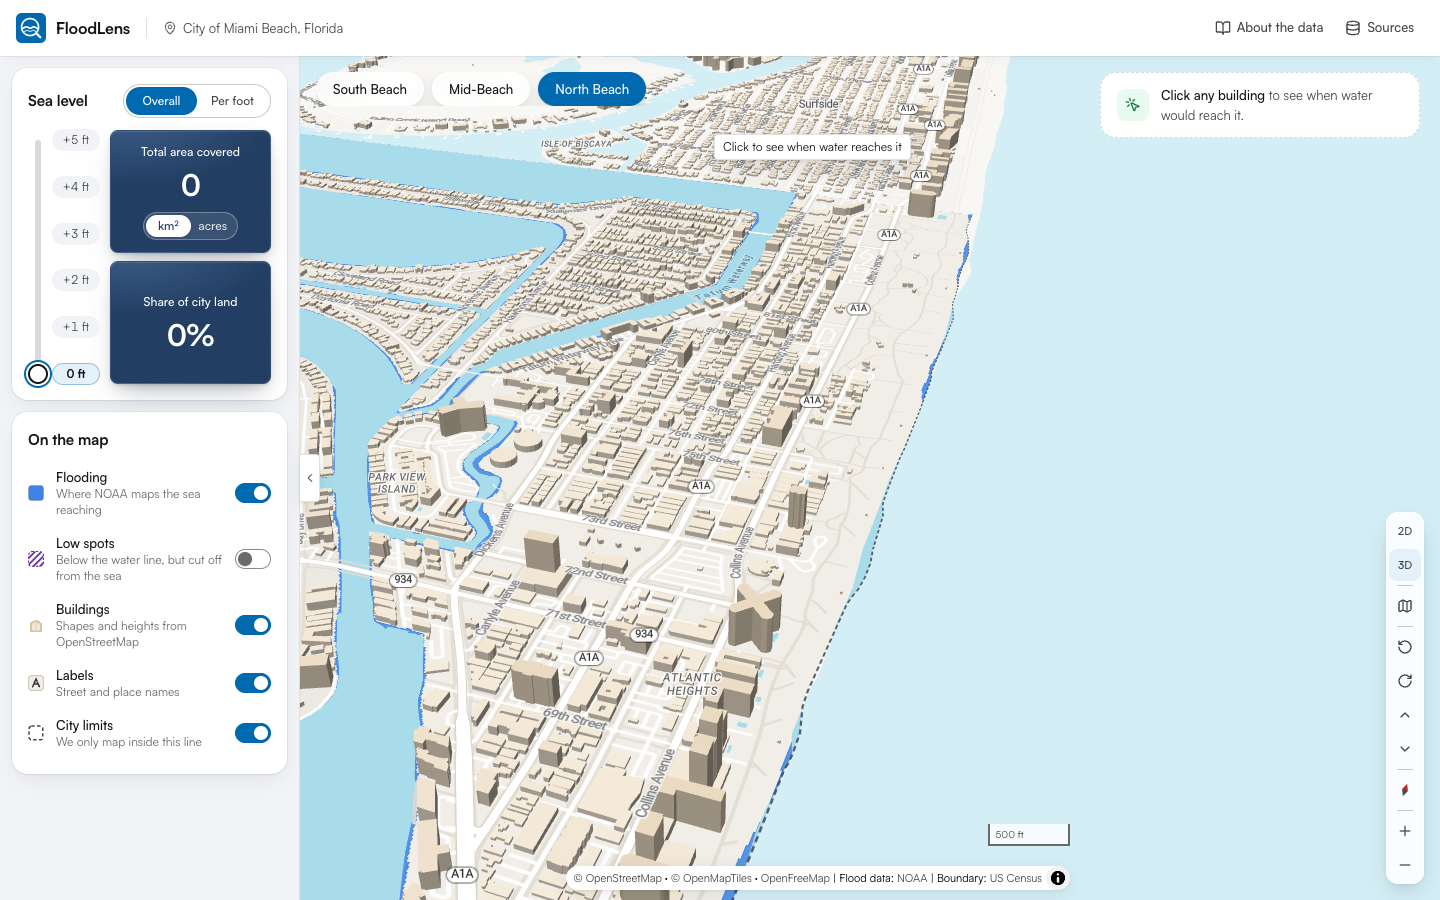
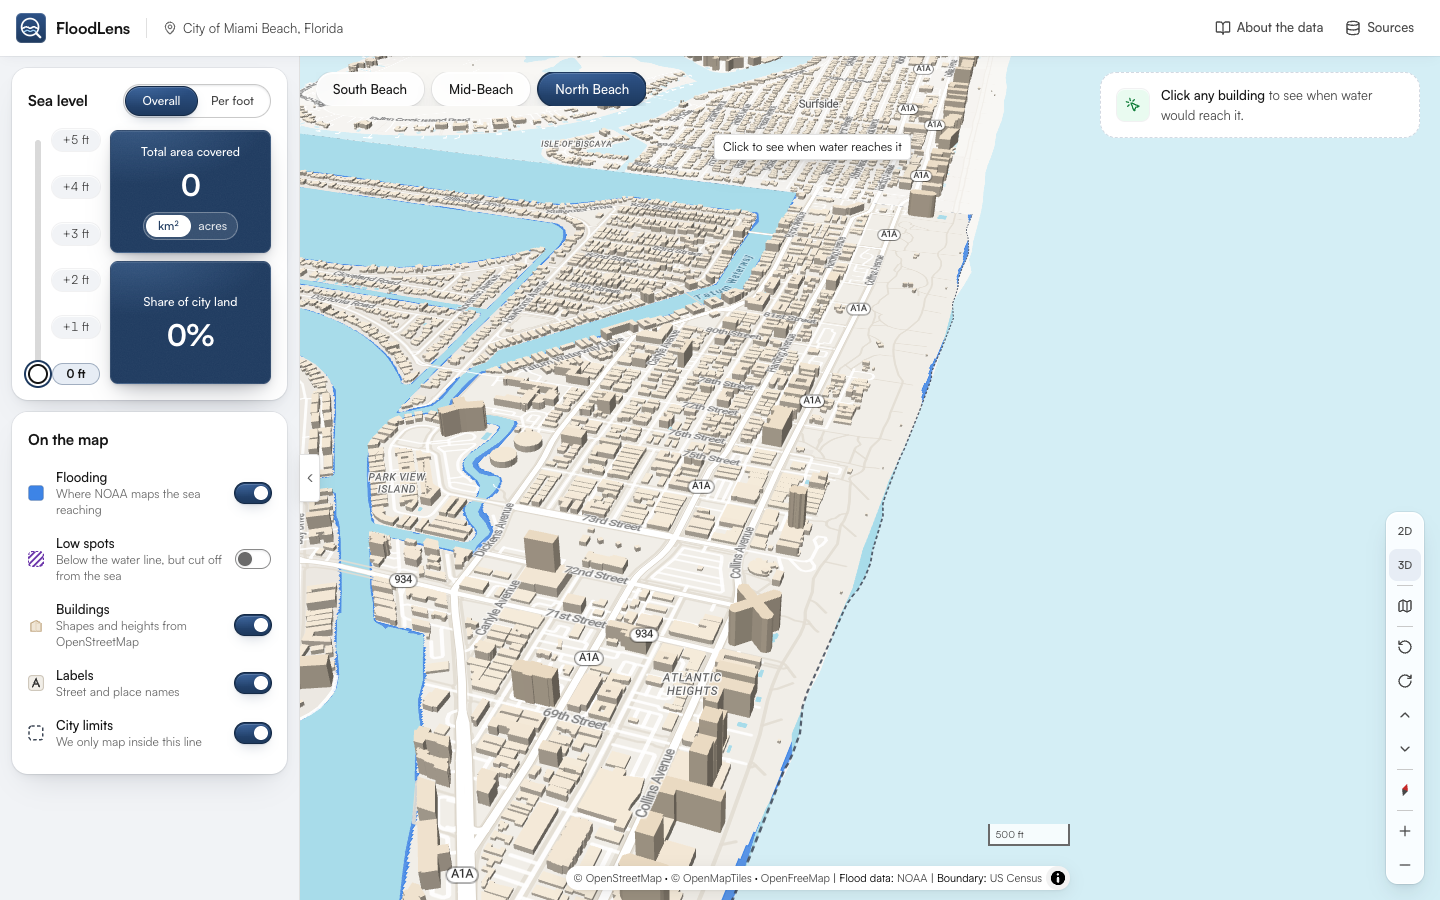
v0.50: Navy brand colour and premium surfaces
The brand accent is now navy #1e3a5f (was #0069b0), the owner's pick from
three rendered primaries, so it matches the premium navy boxes. Solid accent
fills (chosen pills, on switches, the selected area chip, the logo) get the
same finish: soft shade, faint glow, top highlight, navy hairline, small
shadow. Cards, frosted controls, the left canvas, pill tracks, level chips
and icon tiles get the matching hairline, highlight, shadow or faint grain.
The map stays flat: its colours are data.

Tests: 107 unit/component, 20 end-to-end.

diff --git a/src/styles/index.css b/src/styles/index.css
@@ -35,10 +35,11 @@
   --color-fg-muted: #474747;
   --color-fg-subtle: #6a6a6a;
 
-  /* Brand + data */
-  --color-accent: #0069b0;
-  --color-accent-strong: #00548f;
-  --color-accent-soft: #e5f1fa;
+  /* Brand + data. The brand colour is navy (v0.50, the owner's pick), the same as the premium
+     boxes, so selected toggles, chips, switches and the logo read as one family. #0069b0 before. */
+  --color-accent: #1e3a5f;
+  --color-accent-strong: #152a46;
+  --color-accent-soft: #e7edf5;
   --color-flood: #1f66d1;
   --color-flood-strong: #1550a8;
   --color-compare: #f08c1e;
@@ -51,8 +52,13 @@
   --shadow-float: 0 1px 3px rgb(0 0 0 / 0.1), 0 8px 24px rgb(0 0 0 / 0.12);
   /* v0.25: a faint ring and a soft, low shadow instead of a hard border (cards), and a
      stronger lift for the frosted controls that float over the map (glass). */
-  --shadow-card: 0 0 0 1px rgb(16 24 40 / 0.05), 0 1px 2px rgb(16 24 40 / 0.04), 0 8px 20px -6px rgb(16 24 40 / 0.1);
-  --shadow-glass: 0 1px 2px rgb(16 24 40 / 0.06), 0 10px 24px -8px rgb(16 24 40 / 0.3);
+  /* v0.50, premium everywhere: a top highlight, a fine hairline and layered soft shadows. */
+  --shadow-card:
+    inset 0 1px 0 #ffffff, 0 0 0 1px rgb(16 24 40 / 0.06), 0 1px 2px rgb(16 24 40 / 0.05),
+    0 4px 10px -4px rgb(16 24 40 / 0.08), 0 16px 32px -14px rgb(16 24 40 / 0.16);
+  --shadow-glass:
+    inset 0 1px 0 rgb(255 255 255 / 0.9), 0 0 0 1px rgb(16 24 40 / 0.07), 0 2px 4px -1px rgb(16 24 40 / 0.08),
+    0 12px 24px -10px rgb(16 24 40 / 0.28);
   --shadow-header: 0 1px 0 rgb(16 24 40 / 0.06), 0 4px 12px -4px rgb(16 24 40 / 0.06);
 
   --animate-fade-in: fade-in 180ms ease-out both;
@@ -145,6 +151,36 @@
       -webkit-backdrop-filter: none;
       backdrop-filter: none;
     }
+  }
+  /* Premium fills and surfaces (v0.50), so every colour gets the same treatment as the navy boxes:
+     light from the top, a crisp edge, a soft lift. Flat on the map itself: there colour is data. */
+  /* Selected toggles, the chosen area chip, switches that are on: navy with a faint glow. */
+  .fill-accent {
+    background-color: var(--color-accent);
+    background-image:
+      radial-gradient(120% 120% at 20% 0%, rgb(120 170 230 / 0.22), transparent 60%),
+      linear-gradient(180deg, #2d5287, var(--color-accent));
+    box-shadow:
+      inset 0 1px 0 rgb(255 255 255 / 0.18),
+      0 0 0 1px var(--color-accent-strong),
+      0 1px 2px rgb(30 58 95 / 0.35),
+      0 6px 14px -6px rgb(30 58 95 / 0.45);
+  }
+  /* The grey canvas behind the left panel's cards: a whisper of grain. */
+  .canvas-grain {
+    background-image: url("'''+canvas_grain+'''");
+  }
+  /* Grey chips (the slider's levels): a top highlight and a hairline. */
+  .chip-soft {
+    box-shadow: inset 0 1px 0 rgb(255 255 255 / 0.8), 0 0 0 1px rgb(16 24 40 / 0.06);
+  }
+  /* Toggle tracks and switches that are off: a soft inset, like a groove. */
+  .track-inset {
+    box-shadow: inset 0 1px 2px rgb(16 24 40 / 0.1);
+  }
+  /* Pale icon tiles on the place card: a top highlight and a hairline. */
+  .tile-soft {
+    box-shadow: inset 0 1px 0 rgb(255 255 255 / 0.7), 0 0 0 1px rgb(16 24 40 / 0.06);
   }
   .section-title {
     font-size: 13px;

diff --git a/src/components/insights/InspectionCard.tsx b/src/components/insights/InspectionCard.tsx
@@ -38,7 +38,7 @@ function Row({
   return (
     <div className="grid grid-cols-[1fr_auto] items-center gap-x-3 py-1.5">
       <dt className="flex min-w-0 items-center gap-2.5 text-[14px] leading-5 font-medium text-white">
-        <span className="grid size-7 shrink-0 place-items-center rounded-lg" style={{ background: TINTS[tint].bg, color: TINTS[tint].fg }} aria-hidden>
+        <span className="tile-soft grid size-7 shrink-0 place-items-center rounded-lg" style={{ background: TINTS[tint].bg, color: TINTS[tint].fg }} aria-hidden>
           <Icon className="size-4" />
         </span>
         {label}
@@ -67,7 +67,7 @@ export function InspectionCard({ selection, inspection, scenarioFt, onClear }: P
           the map (v0.46; a deeper green for the icon, since #3ee67e on a pale tile is too faint),
           then the name and, under it, the coordinates with a small tile of their own. */}
       <div className="flex items-start gap-2.5">
-        <span className="grid size-9 shrink-0 place-items-center rounded-[10px] bg-[#e9fbf0] text-[#15803d]" aria-hidden>
+        <span className="tile-soft grid size-9 shrink-0 place-items-center rounded-[10px] bg-[#e9fbf0] text-[#15803d]" aria-hidden>
           <Icon className="size-5" />
         </span>
         <div className="min-w-0 flex-1">
@@ -77,7 +77,7 @@ export function InspectionCard({ selection, inspection, scenarioFt, onClear }: P
           </h3>
           {/* No "N m from street": the title already names the street, and the distance answers nothing about water. */}
           <p className="mt-1 flex items-center gap-1.5 text-[12px] leading-4 whitespace-nowrap text-fg-muted tabular">
-            <span className="grid size-5 shrink-0 place-items-center rounded-md bg-surface-2 text-fg-subtle" aria-hidden>
+            <span className="tile-soft grid size-5 shrink-0 place-items-center rounded-md bg-surface-2 text-fg-subtle" aria-hidden>
               <Crosshair className="size-3" />
             </span>
             {formatCoord(lngLat[0], lngLat[1])}

diff --git a/src/components/layout/BrandMark.tsx b/src/components/layout/BrandMark.tsx
@@ -1,8 +1,18 @@
-/** FloodLens mark: a lens ring framing two tide lines. Original artwork. */
+/**
+ * FloodLens mark: a lens ring framing two tide lines. Original artwork. Navy with the premium
+ * treatment (v0.50): light from the top and a faint top highlight. #0069b0 flat before.
+ */
 export function BrandMark({ size = 32 }: { size?: number }) {
   return (
     <svg width={size} height={size} viewBox="0 0 32 32" fill="none" aria-hidden="true">
-      <rect width="32" height="32" rx="6" fill="#0069b0" />
+      <defs>
+        <linearGradient id="fl-mark" x1="0" y1="0" x2="0" y2="1">
+          <stop offset="0" stopColor="#2d5287" />
+          <stop offset="1" stopColor="#1e3a5f" />
+        </linearGradient>
+      </defs>
+      <rect width="32" height="32" rx="6" fill="url(#fl-mark)" />
+      <rect x="0.5" y="0.5" width="31" height="31" rx="5.5" fill="none" stroke="rgb(255 255 255 / 0.18)" />
       <circle cx="15" cy="15" r="9" stroke="#ffffff" strokeWidth="1.8" />
       <path d="M6.9 16.2c2.03 0 2.03-1.4 4.05-1.4s2.03 1.4 4.05 1.4 2.03-1.4 4.05-1.4 2.03 1.4 4.05 1.4" stroke="#ffffff" strokeWidth="1.8" strokeLinecap="round" />
       <path d="M8.6 19.6c1.6 0 1.6-1.1 3.2-1.1s1.6 1.1 3.2 1.1 1.6-1.1 3.2-1.1 1.6 1.1 3.2 1.1" stroke="#9fd0f5" strokeWidth="1.5" strokeLinecap="round" />

diff --git a/src/components/ui/Segmented.tsx b/src/components/ui/Segmented.tsx
@@ -50,7 +50,7 @@ export function Segmented<T extends string | number>({ options, value, onChange,
       role="radiogroup"
       aria-label={label}
       onKeyDown={onKeyDown}
-      className={`flex rounded-full border p-0.5 ${onDark ? 'border-white/30 bg-white/10' : 'border-line-strong bg-surface'} ${className}`}
+      className={`flex rounded-full border p-0.5 ${onDark ? 'border-white/30 bg-white/10' : 'track-inset border-line-strong bg-surface'} ${className}`}
     >
       {options.map((o, idx) => {
         const checked = o.value === value
@@ -73,7 +73,7 @@ export function Segmented<T extends string | number>({ options, value, onChange,
                   ? 'bg-white text-[#1e3a5f]'
                   : 'text-white/85 hover:bg-white/15 hover:text-white'
                 : checked
-                  ? 'bg-accent text-white'
+                  ? 'fill-accent text-white'
                   : 'text-fg-muted hover:bg-surface-3 hover:text-fg'
             }`}
           >

diff --git a/src/components/controls/ScenarioSelector.tsx b/src/components/controls/ScenarioSelector.tsx
@@ -94,7 +94,7 @@ export function ScenarioSelector({ available, value, onChange, colorMode = 'deta
                 onClick={() => onChange(ft)}
                 style={{ bottom: pos(i), height: chipH }}
                 className={`absolute left-0 flex w-full translate-y-1/2 cursor-pointer items-center justify-center rounded-full px-1 text-center text-xs whitespace-nowrap tabular transition-colors ${
-                  ft === value ? 'bg-accent-soft font-bold text-fg ring-1 ring-accent/35 ring-inset' : 'bg-canvas text-fg-muted hover:bg-[#e4e8ee] hover:text-fg'
+                  ft === value ? 'bg-accent-soft font-bold text-fg ring-1 ring-accent/35 ring-inset' : 'chip-soft bg-canvas text-fg-muted hover:bg-[#e4e8ee] hover:text-fg'
                 }`}
               >
                 {formatScenario(ft)}

diff --git a/src/components/controls/ControlPanel.tsx b/src/components/controls/ControlPanel.tsx
@@ -37,7 +37,7 @@ export function ControlPanel({ manifest }: Props) {
     // `--fl-panel-rest` is everything in the panel but the slider, plus the top bar; on short
     // windows the cards and rows tighten (v0.39), so it shrinks by 36 px.
     <div
-      className="scrollbar-thin flex h-full flex-col gap-3 overflow-y-auto bg-canvas p-3 [--fl-panel-rest:532px] short:[--fl-panel-rest:496px] tiny:[--fl-panel-rest:476px]"
+      className="scrollbar-thin canvas-grain flex h-full flex-col gap-3 overflow-y-auto bg-canvas p-3 [--fl-panel-rest:532px] short:[--fl-panel-rest:496px] tiny:[--fl-panel-rest:476px]"
       style={low ? ({ '--fl-panel-extra': '16px' } as CSSProperties) : undefined}
     >
       <section aria-labelledby="sec-level" className="card p-4 short:p-3">

diff --git a/src/components/insights/InsightPanel.tsx b/src/components/insights/InsightPanel.tsx
@@ -36,7 +36,7 @@ export function InsightPanel({ manifestState, inspection }: Props) {
     />
   ) : manifestState.status === 'ready' ? (
     <div className="pointer-events-auto flex items-center gap-3 rounded-2xl border border-dashed border-[#d3d9e2] bg-surface px-4 py-3">
-      <span className="grid size-8 shrink-0 place-items-center rounded-lg bg-[#e9fbf0] text-[#15803d]" aria-hidden>
+      <span className="tile-soft grid size-8 shrink-0 place-items-center rounded-lg bg-[#e9fbf0] text-[#15803d]" aria-hidden>
         <MousePointerClick className="size-4" />
       </span>
       <p className="t-body">

diff --git a/src/components/map/AreaBookmarks.tsx b/src/components/map/AreaBookmarks.tsx
@@ -28,7 +28,7 @@ export function AreaBookmarks({ onGo, onShowAll, active }: Props) {
             title={on ? 'Show all of Miami Beach' : undefined}
             className={`glass shrink-0 rounded-full text-[13px] leading-5 font-medium transition-colors ${
               on
-                ? 'border border-accent bg-accent px-4 py-1.5 text-white hover:bg-accent-strong'
+                ? 'fill-accent border border-accent px-4 py-1.5 text-white'
                 : 'border border-white/80 px-4 py-1.5 text-fg hover:border-accent hover:text-accent'
             }`}
           >

diff --git a/src/components/insights/LevelTrack.tsx b/src/components/insights/LevelTrack.tsx
@@ -74,7 +74,7 @@ export function LevelTrack({ levels, firstFeet, scenarioFt }: Props) {
               style={{ left: `${x(first)}%`, top: FILL - rise(first), height: rise(first) }}
             />
             <span
-              className="absolute size-2.5 -translate-x-1/2 -translate-y-1/2 rounded-full border-2 border-white bg-accent"
+              className="absolute size-2.5 -translate-x-1/2 -translate-y-1/2 rounded-full border-2 border-white bg-[#9fd0f5]"
               style={{ left: `${x(first)}%`, top: FILL - rise(first) }}
             />
           </>

diff --git a/src/components/ui/Switch.tsx b/src/components/ui/Switch.tsx
@@ -37,7 +37,7 @@ export function Switch({ checked, onChange, label, description, swatch, disabled
         disabled={disabled}
         onClick={() => onChange(!checked)}
         className={`relative inline-flex h-5 w-9 shrink-0 items-center rounded-full border transition-colors ${
-          checked ? 'border-accent bg-accent' : 'border-control bg-surface'
+          checked ? 'fill-accent border-accent' : 'track-inset border-control bg-surface'
         }`}
       >
         <span

diff --git a/src/lib/theme.ts b/src/lib/theme.ts
@@ -36,7 +36,7 @@ export const colors = {
 
   // data
   lowLying: '#6b35aa',
-  accent: '#0069b0',
+  accent: '#1e3a5f', // navy since v0.50 (#0069b0 before), as --color-accent
   // Bright green (v0.46, the owner's colour), with a deep green outline. Against the Plasma By
   // level ramp, water, buildings, parks, low spots and land its worst-case OKLab ΔE is 18 for
   // normal vision but 5 for deuteranopia and 8 for protanopia, so some red-green colour-blind

diff --git a/AGENTS.md b/AGENTS.md
@@ -11,7 +11,7 @@ FloodLens is a portfolio web app by a product designer. It shows real NOAA sea-l
 - **Live site:** https://floodlens-five.vercel.app
   - Note: floodlens.vercel.app is a different project that belongs to someone else.
 - **Repo:** https://github.com/srinivasmidhunsiddamsetty-hub/floodlens (public). The remote is `origin` and the branch is `main`.
-- **Current version:** v0.49 (tag `v0.49`): premium navy boxes for the sea-level figures and the place card's answer and facts.
+- **Current version:** v0.50 (tag `v0.50`): navy brand colour and the same premium finish on every surface; the map stays flat.
 - **Test status at handoff:**
   - 107 unit and component tests in 13 files pass.
   - 20 end-to-end tests pass, at 1440×900 (some also check shorter windows, 650–800 px).
@@ -77,7 +77,7 @@ FloodLens is a portfolio web app by a product designer. It shows real NOAA sea-l
 - **Tokens:** defined in `src/styles/index.css` under `@theme`. Map and chart colours are mirrored in `src/lib/theme.ts`, because MapLibre can't read CSS.
   - Canvas `#f1f3f6`, surface white.
   - Text: `fg #151515`, `fg-muted #474747`, `fg-subtle #6a6a6a`.
-  - Accent `#0069b0`.
+  - Accent: navy `#1e3a5f` (v0.50; `#0069b0` before), strong `#152a46`, tint `#e7edf5`. Solid accent fills use `.fill-accent` (soft shade, glow, top highlight, navy hairline, small shadow), not a flat `bg-accent`.
   - Selection colour: green `#3ee67e`, outline `#15803d` (v0.46, the owner's colour; vermilion before, charcoal in v0.38–v0.41). The card's place tile uses `#15803d` on `#e9fbf0`.
 - **No blue numbers.** Blue is only for links and selection. Numbers use `text-fg`.
 - **Cards:** `.card` has 16 px corners, a white background, and a soft ring plus shadow (`--shadow-card`). The left panel's cards sit on the grey canvas; the Insights cards float over the map (v0.34).
@@ -87,6 +87,7 @@ FloodLens is a portfolio web app by a product designer. It shows real NOAA sea-l
 - **Per foot ramp (v0.41):** matplotlib's Plasma (`#f0f921 #fca636 #e16462 #b12a90 #6a00a8 #0d0887`, 0 ft to +5 ft), the owner's pick from rendered options: a different colour per level, easy to tell apart. Worst neighbouring pair OKLab ΔE 15.1 (deuteranopia 9.0, protanopia 6.2). +4 ft is close to the low-spot purple; the hatch keeps them apart. v0.40 used the owner's yellow → orange swatches (ΔE 3.9). Fill opacity stays 85% (the owner's range is 85–95%). Don't change it without the owner.
 
 - **Surfaces inside cards (v0.49):** `.surface-navy` in `index.css`: solid deep navy `#1e3a5f`, a faint radial glow, 4.5% grain, a 1 px semi-transparent hairline with a top highlight, layered soft shadows; white text. Used by the sea-level figure boxes and the place card's answer and facts boxes. Content inside must be light: `Segmented`/`AreaUnitToggle` take `onDark`, and `LevelTrack` uses white labels, baseline and marker. The owner's premium rules for solid colour: subtle hairline, layered diffused shadows, faint grain or glow, no loud gradients. Before: "Soft light" (v0.42–v0.48); a pale blue gradient was rejected as a cliché.
+- **Premium finish everywhere (v0.50):** the owner's rule (hairline, layered diffused shadows, faint grain or glow, never loud gradients) applies to every surface. In `index.css`: `--shadow-card` and `--shadow-glass` carry a white top highlight; `.canvas-grain` (3% grain) on the left panel's canvas; `.track-inset` for pill tracks and switches that are off; `.chip-soft` for level chips; `.tile-soft` for icon tiles. **The map stays flat:** its colours are data, so no glow, grain or shading on flood layers (the owner also declined map lighting in v0.25).
 
 **Card typography (as agreed):**
 
@@ -261,6 +262,7 @@ Each change the owner accepts becomes the next version, v0.33 and so on.
 | v0.47 | "Overall / Per foot" (was Total / By level); both toggles as pills; the map controls as one toolbar with dividers, turn and tilt folding into one button on short windows |
 | v0.48 | Outside-the-city card reads just "This spot is outside Miami Beach." |
 | v0.49 | Premium navy surface (glow, grain, hairline, layered shadows) for the sea-level figures and the place card's answer and facts; white text and light switch and track inside |
+| v0.50 | Navy brand colour `#1e3a5f` (accent, logo, links, focus); `.fill-accent` for solid accent fills; the same premium finish on cards, controls, canvas, chips and tiles; the map left flat |
 
 ---
 
